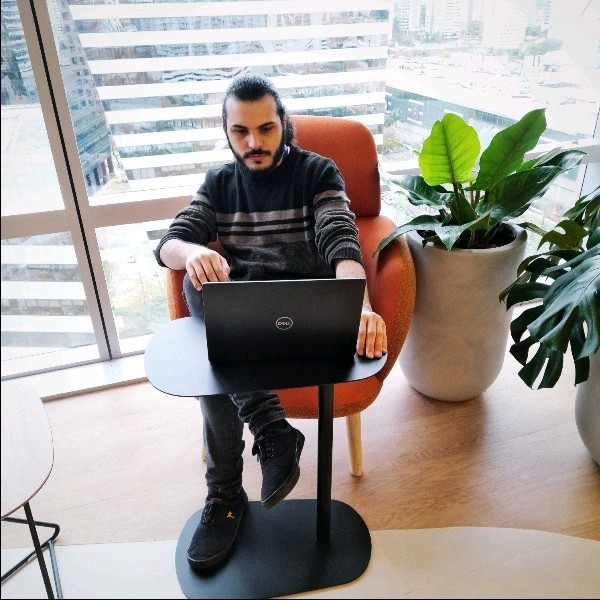
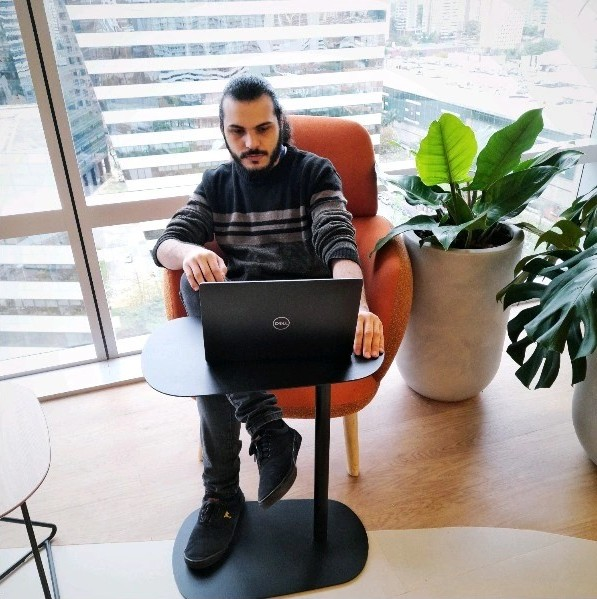
Image animations

diff --git a/main.html b/main.html
@@ -107,7 +107,7 @@
         <h2 data-aos="fade-up" data-i18n="sobre.titulo">Sobre Mim</h2>
         <div class="sobre-conteudo" data-aos="fade-up" data-aos-delay="100">
           <div class="foto-perfil">
-            <img src="assets/images/profile.jpeg" alt="Sua Foto" />
+            <img src="assets/images/profile.jpeg" class="foto-frame" alt="Foto Vladmir sentado com o notebook a frente, no fundo tem um vidro com vista para os prédios"/>
           </div>
           <div class="bio">
             <p data-i18n="sobre.paragrafo1">
@@ -218,6 +218,10 @@
               </ul>
             </div>
           </div>
+          <a href="https://www.linkedin.com/in/vladmirprates/" target="_blank" rel="noopener noreferrer" class="botao-primario">
+              <i class="fab fa-linkedin"></i>
+              <span data-i18n="experiencia.detalhes">Mais detalhes sobre as Experiências</span>
+            </a>
         </div>
       </div>
     </section>
@@ -398,8 +402,7 @@
         <h2 data-aos="fade-up">Paixão por Jogos</h2>
         <div class="jogos-content" data-aos="fade-up" data-aos-delay="100">
           <div class="jogos-imagem">
-            <img
-              src="assets/images/gaming.jpg"
+            <img class="jogos-imagem1" src="assets/images/gaming.jpg"
               alt="Foto de Vladmir Prates na Gamescom, posando ao lado de uma estátua do Sonic, destacando sua paixão por jogos."
             />
           </div>

diff --git a/assets/css/styles.css b/assets/css/styles.css
@@ -758,14 +758,20 @@ nav ul li a:hover i {
   flex: 1;
 }
 .foto-frame {
-  width: 250px;
-  height: 250px;
-  border-radius: 15px;
+  border-radius: 12px;
   overflow: hidden;
   margin: 0 auto;
   box-shadow: var(--sombra-suave);
-  border: 3px solid var(--cor-primaria);
+  transition: var(--transicao-padrao);
+  display: flex;
 }
+
+.foto-frame:hover {
+  transform: translateY(-10px);
+  transform: scale(1.03);
+  box-shadow: 0 15px 30px rgba(0, 0, 0, 0.2);
+}
+
 .foto-frame::before {
   content: "";
   position: absolute;
@@ -1507,6 +1513,7 @@ footer::before {
   font-size: 1.1rem;
   display: flex;
   align-items: center;
+  justify-content: center;
 }
 @keyframes float {
   0%,
@@ -1874,4 +1881,14 @@ nav ul li a.active::before {
   transform: scale(1.1);
   box-shadow: 0 15px 30px rgba(0, 0, 0, 0.2);
 }
-
+ .jogos-imagem1 {
+  box-shadow: var(--sombra-suave);
+  border-radius: 12px;
+  transition: var(--transicao-padrao);
+  display: flex;
+}
+.jogos-imagem1:hover {
+  transform: translateY(-10px);
+  transform: scale(1.03);
+  box-shadow: 0 15px 30px rgba(0, 0, 0, 0.2);
+}

diff --git a/index.html b/index.html
@@ -3,7 +3,7 @@
   <head>
     <meta charset="UTF-8" />
     <meta name="viewport" content="width=device-width, initial-scale=1.0" />
-    <title>Carregando - Vladmir Prates</title>
+    <title>Portfólio - Vladmir Prates</title>
     <style>
       @import url("https://fonts.googleapis.com/css2?family=Montserrat:wght@400;500;600;700&family=Orbitron:wght@400;500;600;700&family=Roboto:wght@300;400;500;700&display=swap");
 
